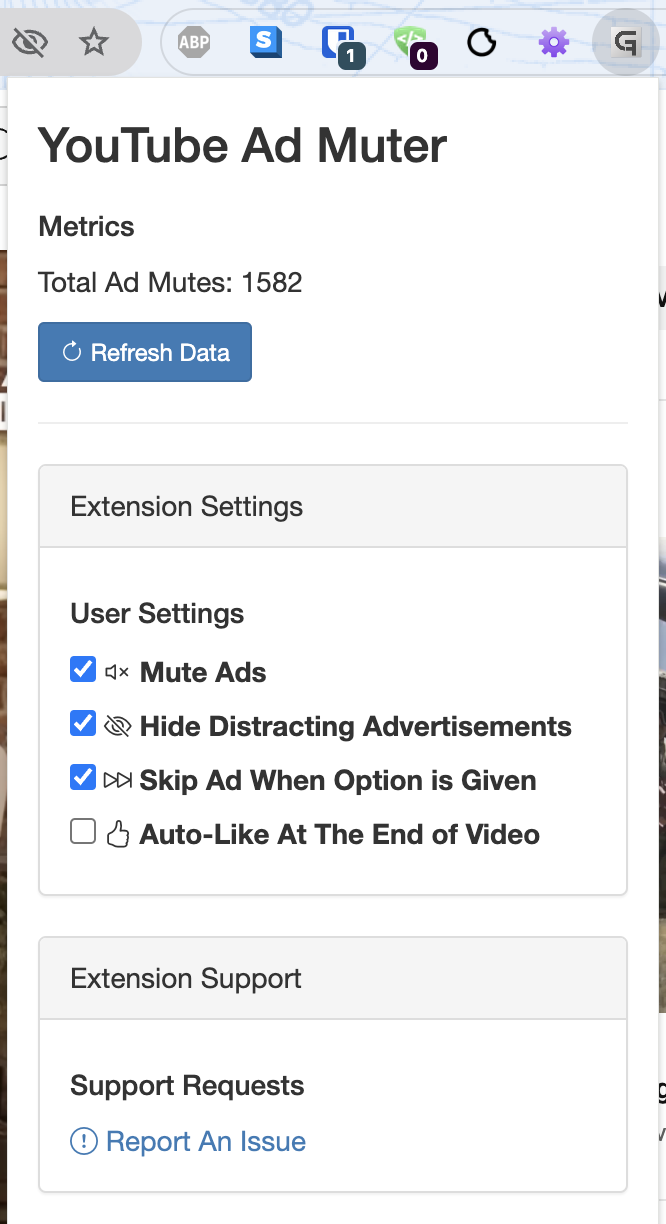
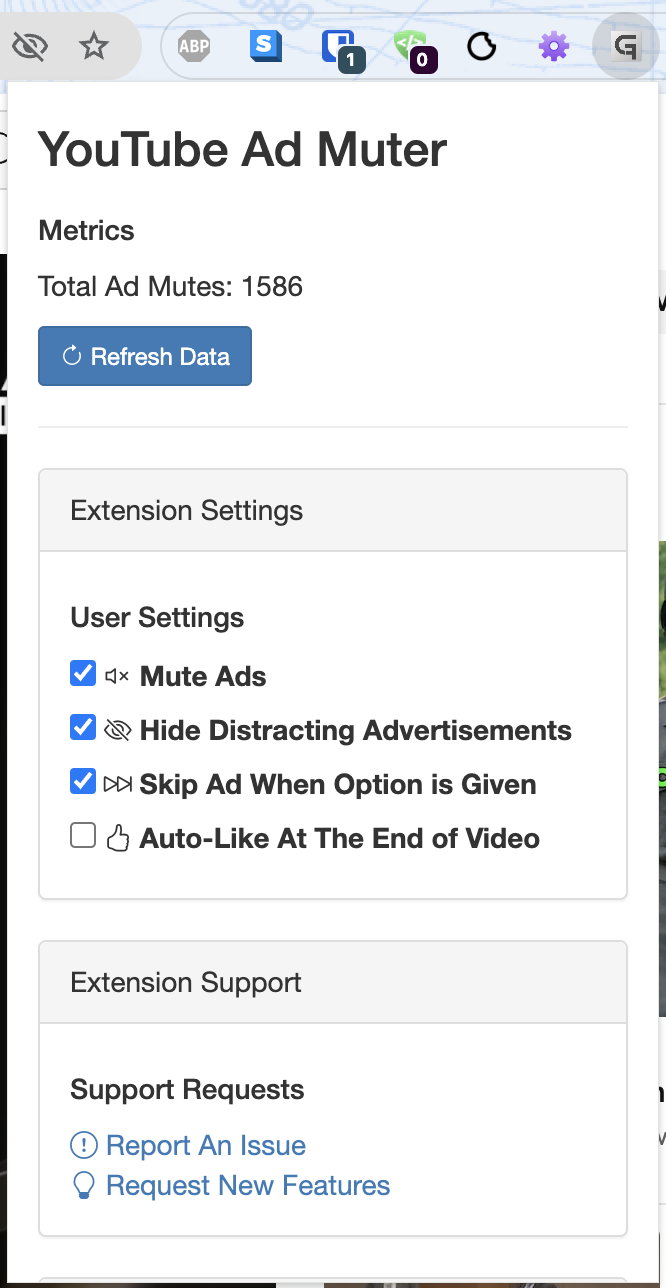
feat: Add feature request link to support card in popup
- Added a new link "Request New Features" in the Support Requests card.
- The link directs users to the GitHub issues page for requesting new features.
- Used the Bootstrap Icons library for the new link icon.
- Updated the application screenshot

diff --git a/popup.html b/popup.html
@@ -84,6 +84,10 @@
                 <a href="https://github.com/PuReWebDev/youtube-ad-muter/issues/new/choose" target="_blank">
                   <i class="bi bi-exclamation-circle"></i> Report An Issue
                 </a>
+                <br>
+                <a href="https://github.com/PuReWebDev/youtube-ad-muter/issues/new/choose" target="_blank">
+                  <i class="bi bi-lightbulb"></i> Request New Features
+                </a>
               </div>
             </div>
           </div>
